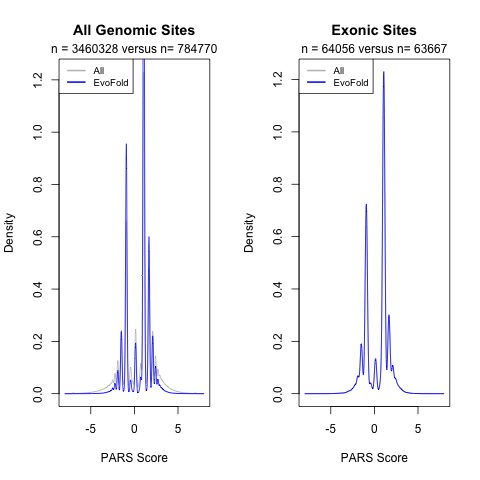
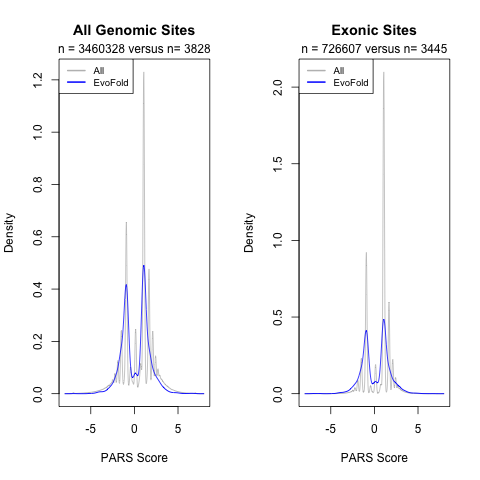
Add files via upload
I figured out the bug --> I used *union* instead of **intersection**! (after realizing that the sum of all EvoFold nucleotides was 90765 nt)

diff --git a/Kertesz_et_al_2010_Comp/README.md b/Kertesz_et_al_2010_Comp/README.md
@@ -21,5 +21,3 @@ The gene/transcript/exon annotation file came from the [Supplemental Website](ht
 ![Overall PARS Score Distributions](PARS_density.png "PARS Score Density Distributions")
 
 Perhaps this means I should try looking at the intronic / intergenic portions of partially overlapping exonic EvoFold fold (like for HAC1).  However, I am not currently certain what to think of these density plots (except that they look similar with or without filtering for EvoFold overlap).
-
-The percent EvoFold exonic overlap looks extremely high (and I don't currently see a bug in my code) - so, something seems off (given the rest of the HAC1 coverage), but perhaps that might be good?
